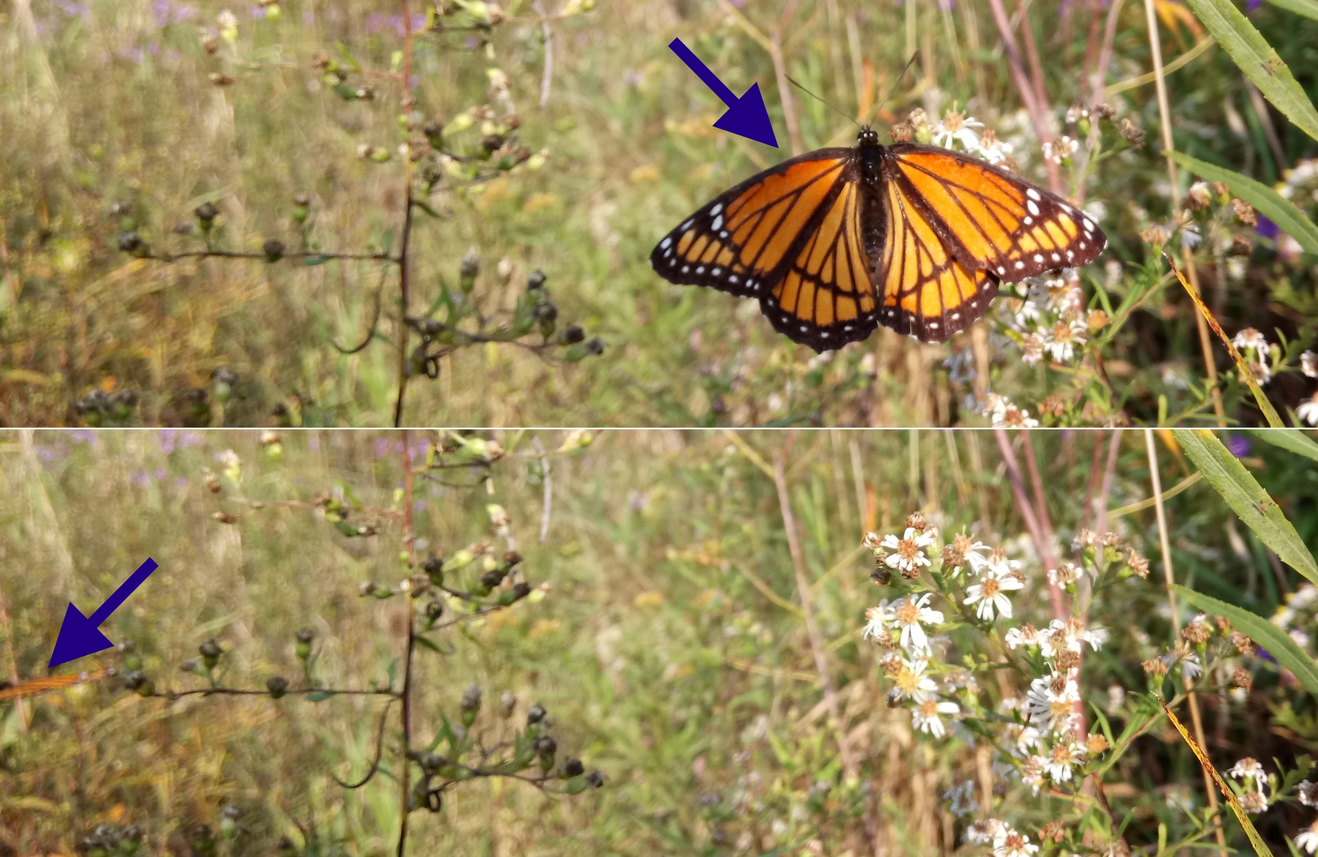
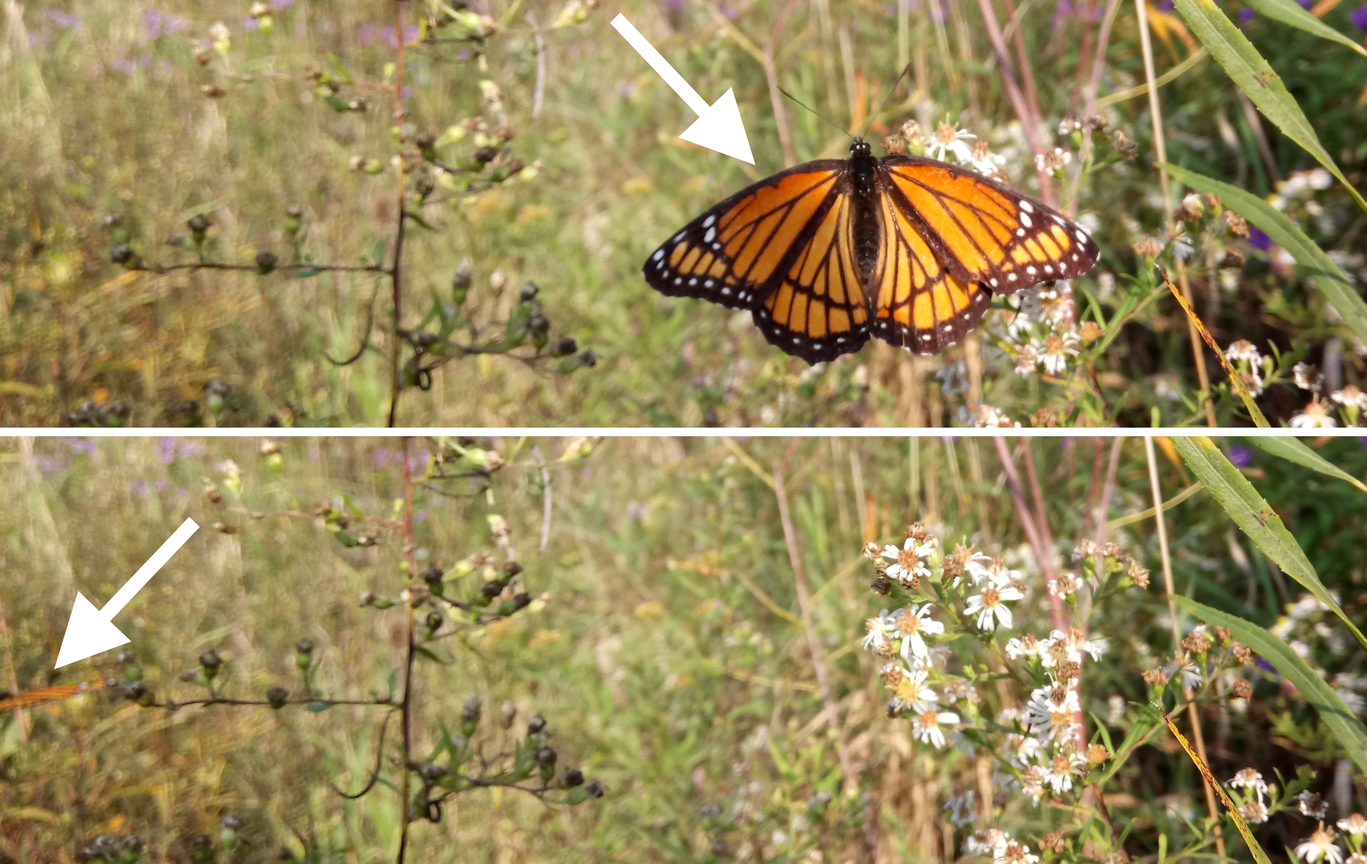
Polishing FABCam page text, adding figure captions, using less unnecessarily enormous images in a couple of places, and redoing butterfly and snail image pairs arranged both vertically and horizontally.

diff --git a/fabcam/index.html b/fabcam/index.html
@@ -85,37 +85,40 @@
         </style>
     </head>
     <body>
-        <h1 style="text-align: center;">FABCam: My Focus Autobracketing Camera App</h1>
+        <h1 style="text-align: center;"><u>FABCam</u>: My <u>F</u>ocus <u>A</u>uto<u>b</u>racketing <u>Cam</u>era App</h1>
 
         <h3 style="text-align: center;">Ali Kazerani</h3>
 
-        <p>(Note: There are no videos or animated GIFs on this page; I use JavaScript to operate the slideshow-like components here.)</p>
+        <p style="color:gray;">(Note: There are no videos or animated GIFs on this page; I use JavaScript to operate the slideshow-like components here.)</p>
 
         <h3>Summary</h3>
 
-        I programmed an Android camera app that uses focus autobracketing to help me take pictures of insects with my smartphone.  This page includes some of the pictures I have thus taken.
+        I programmed an Android camera app that uses focus autobracketing to help me take pictures of insects with my smartphone.  This page includes some of the pictures I have taken using my app.
 
         <h3>Introduction</h3>
 
-        <p>I often have considerable trouble getting my smartphone (Sony Xperia XA) camera to focus automatically or semi-automatically on my intended subjects &#8212 insects, for instance.  I therefore switched from automatic to manual focus, and more particularly to macro manual focus so that the camera would be set to focus on objects close to the lens.  Depth of field decreases as focus distance is decreased, so when the focus distance is set to its minimum/macro value, even small changes in the distance between the camera and the subject result in drastic changes in the sharpness of the subject's image.  I found it difficult to determine from the displayed camera preview whether a subject had really been brought into focus.</p>  
+        <p>I often find that my smartphone (Sony Xperia XA) camera fails to focus automatically or semi-automatically on my intended subjects &#8212 insects, for instance.  By switching from automatic to manual focus and selecting the macro extreme, I can ensure that the camera will focus on objects that are quite close to the lens.  However, since decreasing the focus distance also decreases the depth of field, only a small region of space may be effectively brought into focus at the macro setting, and a subject in macro focus may be taken noticeably out of focus through only a slight perturbation in the distance between the camera and the subject.  This, combined with the difficulty of accurately gauging image quality and sharpness from the smartphone's displayed live camera preview, makes it nearly impossible to reliably capture acceptable pictures of small subjects by taking isolated shots at macro focus.</p>  
         
-        <p>Instead of taking a single picture of each subject, I therefore decided to take a sequence of pictures, each at a different distance from the subject, while always keeping the camera's focus distance macro/minimal.  This would typically produce at least one focused image of the subject.  (An similar, alternative approach would be to keep the camera at a particular distance from the subject while manually sliding the focus distance from macro outward.  However, it is difficult to vary the focus distance quickly and finely by hand using the slider in the camera app.  Also, this alternative approach would typically result in the subject's image occupying a smaller region of the whole picture, resulting in a more coarse image.)</p>
+        <p>Therefore, instead of taking a single picture of each subject, I decided to take a sequence of pictures, all at different distances from the subject, while keeping the camera's focus distance fixed at macro.  This would typically produce at least one reasonably focused/sharp image of the subject.  (A similar, alternative approach is to keep the camera at a fixed distance from the subject while manually sliding the focus distance from macro outward.  However, it is difficult to vary the focus distance quickly and finely by hand using the slider in the stock camera app.  Also, in this alternative approach, the subject would typically occupy a smaller region of the whole picture, so at a given resolution, the level of detail captured would be suboptimal.)</p>
         
-        <p>But this approach had significant disadvantages.  The process is lengthy, and rare indeed are animal subjects that are willing to remain motionless indefinitely.  Additionally, the sight of a nearby smartphone being moved back and forth may be too much for an easily frightened insect.  The process is also tedious, and the photographer may take several shots at similar distances, miss sets of distances altogether (especially as my camera/app/phone sometimes fails to capture a requested shot), and waste time at useless distances.</p>
+        <p>Unfortunately, this approach has significant disadvantages.  The process is lengthy, and many live animal subjects are understandably reluctant to remain motionless indefinitely.  Additionally, the sight of a nearby smartphone being moved back and forth by a large stranger may get to be too much for an easily frightened insect.  The process is also clumsy.  The photographer may take several shots at similar distances, waste shots and time at useless distances, and miss useful distances.  (My device sometimes simply fails to capture or save a requested shot.)</p>
         
         <h3>My App</h3>
 
-        <p>I came to consider an automated version of the fixed distance, varying focus distance approach.  I learned that it has a name: focus autobracketing.  The OpenCamera app actually includes this, but only for smartphones whose cameras may be controlled by the Camera2 API.  My relatively primitive smartphone only provides control through the older Camera API, which does not explicitly allow one to set a particular focus distance.  Since my phone's stock camera app does allow the user to manually set the focus distance on a slider, I wondered if an app could nonetheless access the associated setting.  <a href="https://stackoverflow.com/questions/63932162/setting-camera-focus-distance-in-android">Someone kindly suggested</a> that I could try capturing the parameter names and values for my particular phone and camera under manual focus.  This did indeed reveal the relevant Sony-specific parameter name and some possible values.</p>
+        <p>I wound up contemplating an automated version of the alternative approach where object distance is fixed while focus distance is varied.  I learned that this has a name: focus autobracketing.  The <a href="https://opencamera.org.uk/">OpenCamera</a> app actually includes this capability, but only for smartphones whose cameras may be controlled through the Camera2 API.  My relatively primitive smartphone only provides control through the older Camera API, which does not generally allow one to set a particular focus distance.  Since my phone's stock camera app does allow the user to manually set the focus distance on a slider, I wondered if another app could similarly access the associated setting.  <a href="https://stackoverflow.com/questions/63932162/setting-camera-focus-distance-in-android">Someone kindly suggested</a> that I could try capturing the parameter names and values set in my particular device under manual focus.  This did indeed reveal the name of the relevant Sony-specific parameter (<code>sony-manual-focus</code>) along with some of its possible values.</p>
 
-        <p>While I had never before created a smartphone app and I have essentially never programmed in Java (though I used to code in C#), the Android camera app tutorial gave me a fine introduction, and I ultimately programmed an app implementing focus autobracketing on my smartphone.  Here is a screenshot of my app in action:</p>
+        <p>With this key in hand, I went ahead and programmed an app from scratch, to perform focus autobracketing on my smartphone.  I worked in the Android Studio IDE and coded in Java (and a little XML).  Guides including <a href="https://developer.android.com/guide/topics/media/camera">the official Android Camera API guide</a> gave me an excellent introduction, and <a href="https://developer.android.com/reference/android/hardware/Camera">the official documentation</a> was of course crucial.  While I had never before worked on a smartphone app or programmed in Java (though I did used to code in C#), I quite enjoyed working on this project.</p>
 
-        <div style="width: 50vw; margin: auto;"><img src="screenshot/annotated.png" style="width: 50vw; object-fit: scale-down;"></div>
+        <p>I named the app FABCam (for <u>F</u>ocus <u>A</u>uto<u>b</u>racketing <u>Cam</u>era).  Figure 1 shows a screenshot of it in action.</p>
 
-        <p>The app begins a sequence of shots when the user releases the smartphone's physical camera button.  (The user may prematurely stop a sequence using the same button.)  Before starting a sequence, the user may use the on-screen interface shown above to select the number of successive shots to be taken, as well as the focus distances for the first and last shots.  While the user is setting each of these extremes on its slider, the display preview reflects that focus distance.  When the user releases these controls, the display preview reflects a focus distance intermediate between the selected starting and ending values.  The user may also set the camera's white balance and exposure compensation.  Finally, the user may switch between the main camera and the selfie camera.  (The app saves and restores the settings selected for the cameras during such transitions.)</p>
+        <div style="width: 60vw; margin: auto;"><img src="screenshot/annotated.png" style="width: 60vw; object-fit: scale-down;"></div>
+        <p style="text-align: center;"><b>Figure 1.</b>  A screenshot showing FABCam's on-screen interface.  The damselfly seen in the live preview is the subject of the shots.</p>
+
+        <p>The app begins a sequence of shots when the user releases the smartphone's physical camera button.  (The user may later prematurely stop a sequence by the same action.)  Before thus initiating a sequence, the user may use the on-screen interface shown above to select the number of successive shots to be taken, as well as the focus distances for the first and last shots.  While the user is setting each of these extremes on a slider, the live preview reflects that focus distance.  When the user releases these controls, the live preview reflects a focus distance intermediate between the selected starting and ending values.  The user may also set the camera's white balance and exposure compensation.  Finally, the user may switch between the main and selfie cameras.  (Within a session, the app remembers the user's settings for one camera when they switch to the other camera, should they later choose to switch back.)</p>
 
         <h3>Some Sequences I Captured With Focus Autobracketing</h3>
 
-        <p>Three shots thus taken of that damselfly at increasing focus distances show the region in focus moving from the front of the head, to the bulk of the animal including the thorax, the proximal parts of the wings, and the anterior part of the abdomen, and finally to the posterior part of the insect, including the tips of the wings.</p>
+        <p>With the settings shown in Figure 1, I captured a focus-bracketed sequence of shots of the damselfly.  Figure 2 shows that with increasing focus distance, the region in focus moves from the front of the head in the first shot, to the bulk of the animal (including the thorax, the proximal parts of the wings, and the anterior part of the abdomen) in the second shot, to the posterior part of the insect (including the tips of the wings) in the third shot.</p>
 
         <div class="auto_pendulum_sequence">
             <div class="auto_pendulum_sequence_slide">
@@ -128,12 +131,11 @@
                 <img src="sequences/damselfly/3.jpg" alt="Damselfly sequence, shot 3" class="auto_pendulum_sequence_image">
             </div>
         </div>
+        <p style="text-align: center;"><b>Figure 2.</b> Three successive shots from a focus-autobracketed sequence of a damselfly.  (To best show this progression, I used MATLAB to apply projective transformations to align the first and third images with the second, with respect to several control points that I selected in each image, thereby roughly compensating for changes in the relative position and orientation of the subject and the handheld smartphone.  I placed the control points on the plant, but none on the animal, to avoid erroneously attempting to compensate for changes in the damselfly's posture by distorting its image.  I also cropped the three registered images.  You can see the original &#8212 untransformed and uncropped &#8212 sequence of images <a href="https://photos.app.goo.gl/UbX7RWWE93XHAriu6">here</a>.)</p>
 
-        <p>(To best show this progression, I used MATLAB to apply projective transformations to align the first and third images with the second, with respect to several control points that I selected in each image, thereby roughly compensating for changes in the relative position and orientation of the subject and handheld smartphone camera.  I placed the control points on the plant, but none on the animal, to avoid morphing the damselfly's image to compensate for natural changes in its own posture.  I also cropped the three registered images.  You can see the original &#8212 untransformed and uncropped &#8212 sequence of images <a href="https://photos.app.goo.gl/UbX7RWWE93XHAriu6">here</a>.)</p>
+        <p>From such a focus-bracketed sequence, one can then choose whichever image (or set of images) best shows the feature(s) of interest.  It should also be possible in some cases to effectively extend the depth of field (i.e., show a deeper region in focus) by focus-stacking (z-stacking) a sequence of focus-bracketed images.</p>
 
-        <p>From such a focus autobracketed sequence, one can then choose whichever image (or set of images) best shows the feature(s) of interest.  It should also be possible in some cases to effectively increase the depth of field, showing a deeper region in focus, by focus stacking (z-stacking) a sequence of focus-autobracketed images.</p>
-
-        <p>A similar sequence that I captured of a katydid (that appears to be missing a hind leg) is shown below.</p>
+        <p>A similar sequence that I captured of a katydid is shown in Figure 3.</p>
 
         <div class="auto_pendulum_sequence">
             <div class="auto_pendulum_sequence_slide">
@@ -146,8 +148,7 @@
                 <img src="sequences/katydid/3.jpg" alt="Katydid sequence, shot 3" class="auto_pendulum_sequence_image">
             </div>
         </div>
-
-        <p>(You can see the untransformed and uncropped sequence of images <a href="https://photos.app.goo.gl/UHk5kMhXuSHCDEBx8">here</a>.)</p>
+        <p style="text-align: center;"><b>Figure 3.</b> Three successive shots from a focus-autobracketed sequence of a katydid that is evidently missing its left hind leg.  (The images have been transformed and cropped as explained for Figure 2.  You can see the original sequence of images <a href="https://photos.app.goo.gl/UHk5kMhXuSHCDEBx8">here</a>.)</p>
 
         <!--<div class="auto_pendulum_sequence">
             <div class="auto_pendulum_sequence_slide">
@@ -214,7 +215,7 @@
 
         <h3>Some Shots I Captured Using Focus Autobracketing</h3>
 
-        <p>With this year's onset of cool and cold temperatures approaching, I went out and used my app to capture these and a few other sequences of focus autobracketed pictures.  Below, I show a selection of individual shots from these sequences.  (Cropping aside, these images are identical to the captured originals.)</p>
+        <p>With the year's onset of cool and cold temperatures approaching, I went out and used my app to capture these and a few other sequences of focus-autobracketed pictures.  In Figure 4, I show a selection of individual shots from these sequences.  (Aside from cropping, these images are identical to the captured originals.)</p>
 
         <div class="interactive_slideshow">
             <div class="interactive_slideshow_slide">
@@ -253,8 +254,8 @@
             <a class="prev" onclick="showAdjacentSlideInInteractiveSlideshow(-1)">&#10094;</a>
             <a class="next" onclick="showAdjacentSlideInInteractiveSlideshow(+1)">&#10095;</a>
         </div>
-        <p id="interactive_slideshow_caption" style="text-align: center;"></p>
-    
+        <p style="text-align: center;"><b>Figure 4.</b> <span id="interactive_slideshow_caption"></span></p>
+        
         <script type="text/javascript">
             var interactive_slideshow_slides = document.getElementsByClassName('interactive_slideshow_slide');
             var current_index_in_interactive_slideshow = 0;
@@ -274,7 +275,7 @@
             {
                 interactive_slideshow_slides[current_index_in_interactive_slideshow].style.display = "block";
                 var image_alt_text = interactive_slideshow_slides[current_index_in_interactive_slideshow].getElementsByTagName("img")[0].alt;
-                document.getElementById("interactive_slideshow_caption").innerHTML = `<b>${image_alt_text}</b><br />(${current_index_in_interactive_slideshow + 1}/${interactive_slideshow_slides.length})`;
+                document.getElementById("interactive_slideshow_caption").innerHTML = `${image_alt_text} (${current_index_in_interactive_slideshow + 1}/${interactive_slideshow_slides.length})`;
             }
 
         </script>
@@ -282,28 +283,28 @@
         <h3>Notes and Observations</h3>
 
         <ul>
-            <li>When setting up for a sequence of focus autobracketed shots of a subject, the photographer should obviously choose initial and final focus distances that fairly tightly suround the interval of desired focus distances, and choose the number of shots in the sequence so that the difference between focus distances in two consecutive shots is a little less than the minimum depth of field at those distances.  In this way, the whole region of interest will be brought into reasonable focus across the sequence of shots.<ul>
+            <li>When setting up for a sequence of focus-autobracketed shots of a subject, the photographer should obviously choose initial and final focus distances that fairly tightly surround the interval of desired focus distances, and choose the number of shots in the sequence so that the difference between focus distances in two consecutive shots is a little less than the minimum depth of field at those distances.  In this way, the whole region of interest will be brought into reasonable focus across the sequence of shots.<ul>
                 <li>If one takes too few shots in a sequence, some features of interest may not be in focus in any of the captured images.</li>
-                <li>If one orders too many shots in a sequence, successive images may be essentially redundant.  Also, the sequence may take so long to shoot that the subject will move during the sequence, possibly leaving altogether.  (If the subject moves toward or away from the camera throughout the sequence, it is possible that no shot in the sequence will bring features of interest into focus.)</li><br />
-                <div style="width: 30vw; margin: auto;"><img src="other_images/butterfly_leaving_too_soon.jpg" style="width: 30vw; object-fit: scale-down;"></div>
-                <p style="text-align: center;">A butterfly lost patience with me during the two-second interval between shots 8 (top) and 9 (bottom) of a focus-autobracketed sequence.</p>
-                <div style="width: 30vw; margin: auto;"><img src="other_images/snail_going_places.jpg" style="width: 30vw; object-fit: scale-down;"></div>
-                <p style="text-align: center;">While this did not cause any problems, this snail saw no good reason to sit still during the 23 seconds between the first and tenth shots of a focus-autobracketed sequence.</p>
-                <li>If the photographer positions the camera too close to (too far from) the subject or overestimates (underestimates) the nearest (farthest) desired focus distance, the features of interest may be entirely out of focus in every shot in the sequence.  The first (last) shot would then be the best, but even it may not be acceptable.  In the slideshow presented earlier, the drone bee image was the first shot in a sequence, all subsequent shots having placed him entirely out of focus, and the image of the mating damselflies was the final shot in a sequence, all prior shots having placed them entirely out of focus.</li>
+                <li>If one demands too many shots in a sequence, successive images may be essentially redundant.  Also, the sequence may take so long to shoot that the subject will move during the sequence, possibly leaving altogether.  (If the subject moves toward or away from the camera throughout the sequence, it is possible that no shot in the sequence will bring the features of interest into focus.)</li><br />
+                <div style="width: 60vw; margin: auto;"><img src="other_images/butterfly_leaving_too_soon.jpg" style="width: 60vw; object-fit: scale-down;"></div>
+                <p style="text-align: center;"><b>Figure 5.</b> This butterfly lost patience with me during the two-second interval between shots 8 (top) and 9 (bottom) of a focus-autobracketed sequence.</p>
+                <div style="width: 60vw; margin: auto;"><img src="other_images/snail_with_someplace_to_be.jpg" style="width: 60vw; object-fit: scale-down;"></div>
+                <p style="text-align: center;"><b>Figure 6.</b> While this did not cause any problems, this snail saw no good reason to sit still during the 23 seconds between the first and tenth shots of a focus-autobracketed sequence.</p>
+                <li>If the photographer positions the camera too close to (too far from) the subject or overestimates (underestimates) the nearest (farthest) desired focus distance, the features of interest may be entirely out of focus in every shot in the sequence.  The first (last) shot would then be the best of the bunch, but even it may not be acceptable.  In the slideshow presented earlier, the drone bee image was the first shot in a sequence, all subsequent shots having placed him entirely out of focus, and the image of the mating damselflies was the final shot in a sequence, all prior shots having placed them entirely out of focus.</li>
             </ul></li>
-            <li>If a subject (e.g., a bee foraging at a cluster of flowers) is expected to move (perhaps unpredictably) toward or away from the camera, the initial and final focus distances could be set equal at an appropriate value in the app, and a sequence of shots with the same focus distance thus taken.  The subject would then hopefully be in focus in at least one of the captured shots.</li>
-            <li>While developing and testing my app, I often found that the first image in a sequence would appear normal, while all subsequent images in the sequence would be overexposed, showing saturation.  It appears that the camera establishes an appropriate exposure level anew after a picture has been taken.  This process is not immediate, so that if a picture is taken too soon after another, the exposure setting may be at an in-transient level, resulting in an unacceptable image.  I tried appropriately setting the auto-exposure and auto-white-balance lock states in the camera parameters via the Camera API, but these settings do not appear to provide a path to solving the problem.  Following some experimentation (examples from which I share below), I decided that an added delay of 1.5 seconds between shots was appropriate to resolve this issue, and this is in place in the current implementation.  It is unfortunate that the intervals between successive shots, and therefore the time needed to complete each sequence, must be so significantly lengthened.</li><br />
-            <div style="width: 50vw; margin: auto;"><img src="autoexp_delay_expt/pictures.png" style="width: 50vw; object-fit: scale-down;"></div>
-            <p style="text-align: center;">With the autoexposure routine having already converged, a sequence's first shot (a) was captured at an appropriate exposure level.  If a subsequent shot (b) was taken almost immediately after its predecessor, the re-started autoexposure routine may not yet ave converged to a reasonable setting, resulting in an unacceptable (possibly saturated) image.  Adding a delay between successive shots would give the autoexposure routine time to converge to a reasonable setting, producing a more reasonable image (c).  A very long delay would produce the best possible result (d).</p>
+            <li>If a subject (e.g., a bee foraging at a cluster of flowers) is expected to move (perhaps unpredictably) toward or away from the camera, the initial and final focus distances could both be set to the same suitable value in the app, and a sequence of shots with the same focus distance thus taken.  The subject would then hopefully be in focus in at least one of the captured shots.</li>
+            <li>While developing and testing the app, I often found that the first image in a sequence would appear normal, while all subsequent images in the sequence would be overexposed, showing saturation.  It appears that the camera always establishes an appropriate exposure level anew after a picture is taken.  This process takes time to complete, so that if a picture is taken too soon after another, the exposure setting may then be at an in-transient level, resulting in an unacceptable image.  I tried setting the camera's auto-exposure and auto-white-balance lock states helpfully via the Camera API, but these settings do not appear to provide a path toward solving the problem.  Following some experimentation (see Figures 7 and 8), I decided that an added delay of 1.5 seconds between shots was appropriate to resolve this issue, and this fix is in place in the current implementation.  It is unfortunate that the intervals between successive shots, and therefore the time needed to complete each sequence, must be so considerably lengthened.</li><br />
+            <div style="width: 90vw; margin: auto;"><img src="autoexp_delay_expt/pictures.png" style="width: 90vw; object-fit: scale-down;"></div>
+            <p style="text-align: center;"><b>Figure 7.</b> With the autoexposure routine having already converged, a sequence's first shot (a) is captured at an appropriate exposure level.  If a subsequent shot (b) is taken almost immediately after its predecessor, the re-started autoexposure routine may not yet have converged to a reasonable setting, resulting in an unacceptable (possibly saturated) image.  Extending the delay between successive shots gives the autoexposure routine more time to converge to a reasonable setting, producing a more reasonable image (c).  A very long delay produces the best possible result (d).</p>
             <div style="width: 30vw; margin: auto;"><img src="autoexp_delay_expt/intensity_vs_delay.png" style="width: 30vw; object-fit: scale-down;"></div>
-            <p style="text-align: center;">The results of this particular experiment may be summarized in a plot.  Delays ranging from 0.16 s to 3.00 s were added between successive shots taken of the same scene and at the same focus distance.  Each post-delay image was converted to grayscale, the mean of the resulting pixel intensities computed, and this mean divided by the mean for the very first image in the sequence.  These relative mean image intensities are here plotted (as points) against the corresponding added delay times.  The dotted line corresponds to the first (ostensibly normal) image.  The points and dotted line corresponding to sample images (a) through (d) are indicated on the plot.  The results shown here are from a single rough experimental run.  I held the smartphone in my hands to capture the shots, so the position and orientation of the camera relative to the subject was not quite fixed over the course of the run.  The resulting changes in the photographed region, along with changing cloud cover, the effects of any breezes, and variability in the behaviour of the device would of course have generated some of the variation in intensity seen in the plot.</p>
-            <li>The camera parameter associated with the focus distance takes values in unspecified units.<ul>
-                <li>After some rough experimentation, I concluded that I might approximate the relationship between the focus distance and the parameter value via a hyperbola: current focus distance = (parameter value for focus distance of one metre - parameter value for infinite focus distance)/(current parameter value - parameter value for infinite focus distance).  Through the API, the camera does provide parameter values corresponding to a focus distance of one metre and an infinite focus distance.  It is through this relationship that I show approximate values of the selected focus distances in the app's on-screen interface.</li>
-                <li>For a sequence of focus-autobracketed shots, I have the app hit an arithmetic progression of focus distance parameter values with the desired start, end, and length.  The actual focus distances in the sequence are thus non-uniformly spaced, with the difference between successive focus distances increasing with focus distance.  This is not unreasonable, since depth of field increases with focus distance.</li>
-                <li>Through the API, the camera specifies an extreme focus distance parameter value beyond the value it specifies for macro focus (which is the nearest focus setting in the stock camera app), and it specifies an opposite extreme value beyond the value it specifies for infinite focus distance.  It is not clear whether these extreme values are reasonable or meaningful, so I limit my app to the interval between the macro and infinity values.</li>
+            <p style="text-align: center;"><b>Figure 8.</b> The results of this particular experiment may be summarized in a plot.  Delays ranging from 0.16 s to 3.00 s were added between successive shots taken of the same scene and at the same focus distance.  Each post-delay image was converted to grayscale, the mean of the resulting pixel intensities computed, and this mean divided by the mean for the very first image in the sequence.  These relative mean image intensities are here plotted (as points) against the corresponding added delay times.  The dotted line corresponds to the first (ostensibly normal) image.  The dotted line and points corresponding to sample images (a) through (d) are indicated on the plot.  The results shown here are from a single rough experimental run.  I held the smartphone in my hands to capture the shots, so the position and orientation of the camera relative to the world was not quite fixed over the course of the run.  The resulting changes in the photographed region, along with changing cloud cover, the effects of any breezes on the plant(s), and variability in the performance of the device would of course have generated some of the variation in intensity seen in the plot.</p>
+            <li>The camera parameter associated with the focus distance (<code>sony-manual-focus</code>) takes values in unspecified units.<ul>
+                <li>Through the API, each camera does provide constants that give the value of the parameter for a focus distance of one metre (<code>sony-manual-focus-for-1m</code>) and for infinite focus distance (<code>sony-manual-focus-for-infinity</code>).  After some rough experimentation, I concluded that I might approximate the relationship between the focus distance and the value of the parameter via a hyperbola:<br />current focus distance in metres = (<code>sony-manual-focus-for-1m</code> &ndash; <code>sony-manual-focus-for-infinity</code>)/(current parameter value &ndash; <code>sony-manual-focus-for-infinity</code>).<br />It is through this relationship that I show approximate values of the selected focus distances in the app's on-screen interface.</li>
+                <li>For a sequence of focus-autobracketed shots, I have the app hit an arithmetic progression of focus distance parameter values with the desired start, end, and length.  The resulting physical focus distances in the sequence are thus non-uniformly spaced, with the separation between successive focus distances increasing with focus distance.  This is not unreasonable or undesirable, since depth of field increases with focus distance.</li>
+                <li>Through the API, each camera specifies an extreme focus distance parameter value (<code>sony-max-manual-focus</code>) beyond the value it specifies for macro focus (<code>sony-manual-focus-for-macro</code>, which is the nearest focus setting in the stock camera app), and it specifies an opposite extreme value (<code>sony-min-manual-focus</code>) beyond the value it specifies for infinite focus distance (<code>sony-manual-focus-for-infinity</code>).  It is not clear whether these extreme values are reasonable or meaningful, so I limit my app to the interval bounded by the macro and infinity values.</li>
             </ul></li>
         </ul>
 
-        <p style="text-align: center;">(I last updated this page on 30 November 2021.)</p>
+        <p style="text-align: center;">(I last updated this page on 2 December 2021.)</p>
     </body>
 </html>
